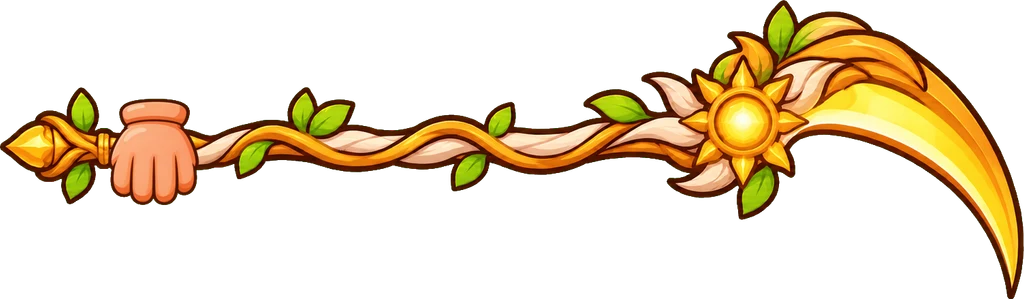
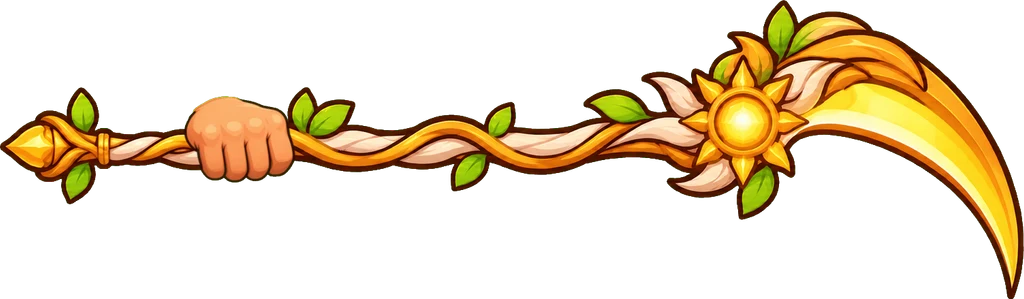
Oren weapons

Changed region(s): [[0.0938, 0.301, 0.3125, 0.6923]]

diff --git a/app/(protected)/(art)/data/rigs.ts b/app/(protected)/(art)/data/rigs.ts
@@ -140,8 +140,8 @@ const WEAPONS: Record<string, WeaponFit> = {
   'gale-bow': { grip: 0.4997, gripY: 0.714, length: 0.956, rest: -Math.PI / 2 + 0.213 },
   maul: { grip: 0.16, gripY: 0.45, length: 0.78, rest: -0.25 },
   hatchets: { grip: 0.13, gripY: 0.43, length: 0.73, rest: -0.25 },
-  'root-sickle': { grip: 0.26, gripY: 0.35, length: 0.88, rest: -0.32 },
-  scythe: { grip: 0.15, gripY: 0.34, length: 0.88, rest: -0.32 },
+  'root-sickle': { grip: 0.196, gripY: 0.331, length: 0.88, rest: -0.32 },
+  scythe: { grip: 0.194, gripY: 0.351, length: 0.88, rest: -0.32 },
   'thorn-sickle': { grip: 0.19, gripY: 0.34, length: 0.88, rest: -0.32 },
   // The grimoires float beside the hand: it "holds" them by their spine.
   tome: { grip: 0.5, gripY: 1.12, length: 0.29, rest: 0 },
@@ -175,7 +175,7 @@ interface ArmJoints {
 
 const DEFAULT_ARM: ArmJoints = { shoulder: [0.67, 0.37], top: [0.28, 0.12], wrist: [1.12, 0.91] }
 const BRANN_ARM: ArmJoints = { shoulder: [0.235, 0.317], top: [0.37, 0.15], wrist: [0.83, 0.89] }
-const OREN_ARM: ArmJoints = { shoulder: [0.24, 0.32], top: [0.45, 0.2], wrist: [0.86, 0.92] }
+const OREN_ARM: ArmJoints = { shoulder: [0.24, 0.32], top: [0.45, 0.2], wrist: [0.815, 0.89] }
 const YSOLDE_ARM: ArmJoints = { shoulder: [0.675, 0.32], top: [0.11, 0.27], wrist: [0.82, 0.34] }
 const YSOLDE_ATTACK: NonNullable<Rig['attack']> = {
   arm: [
